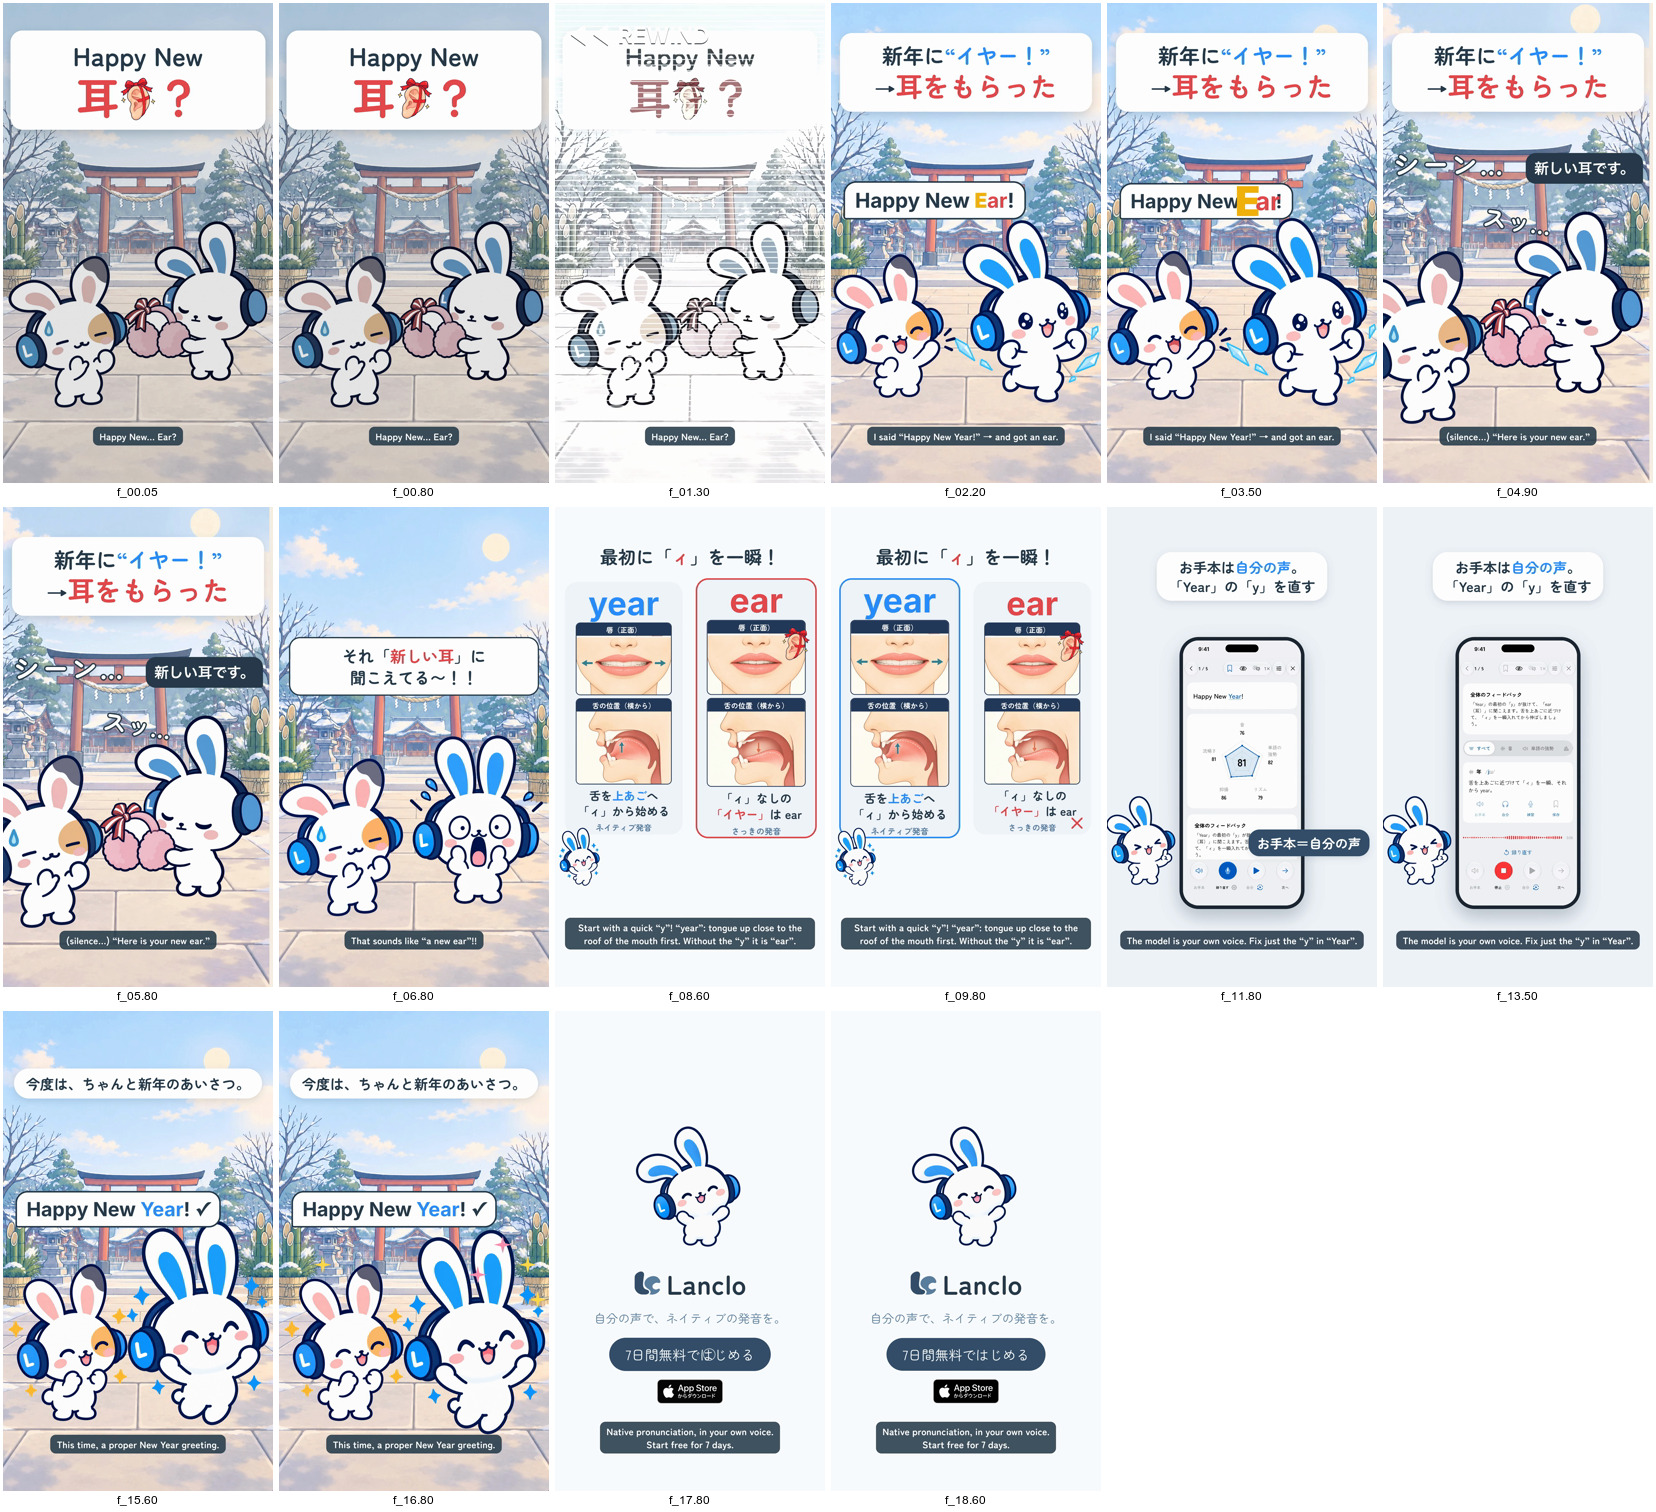
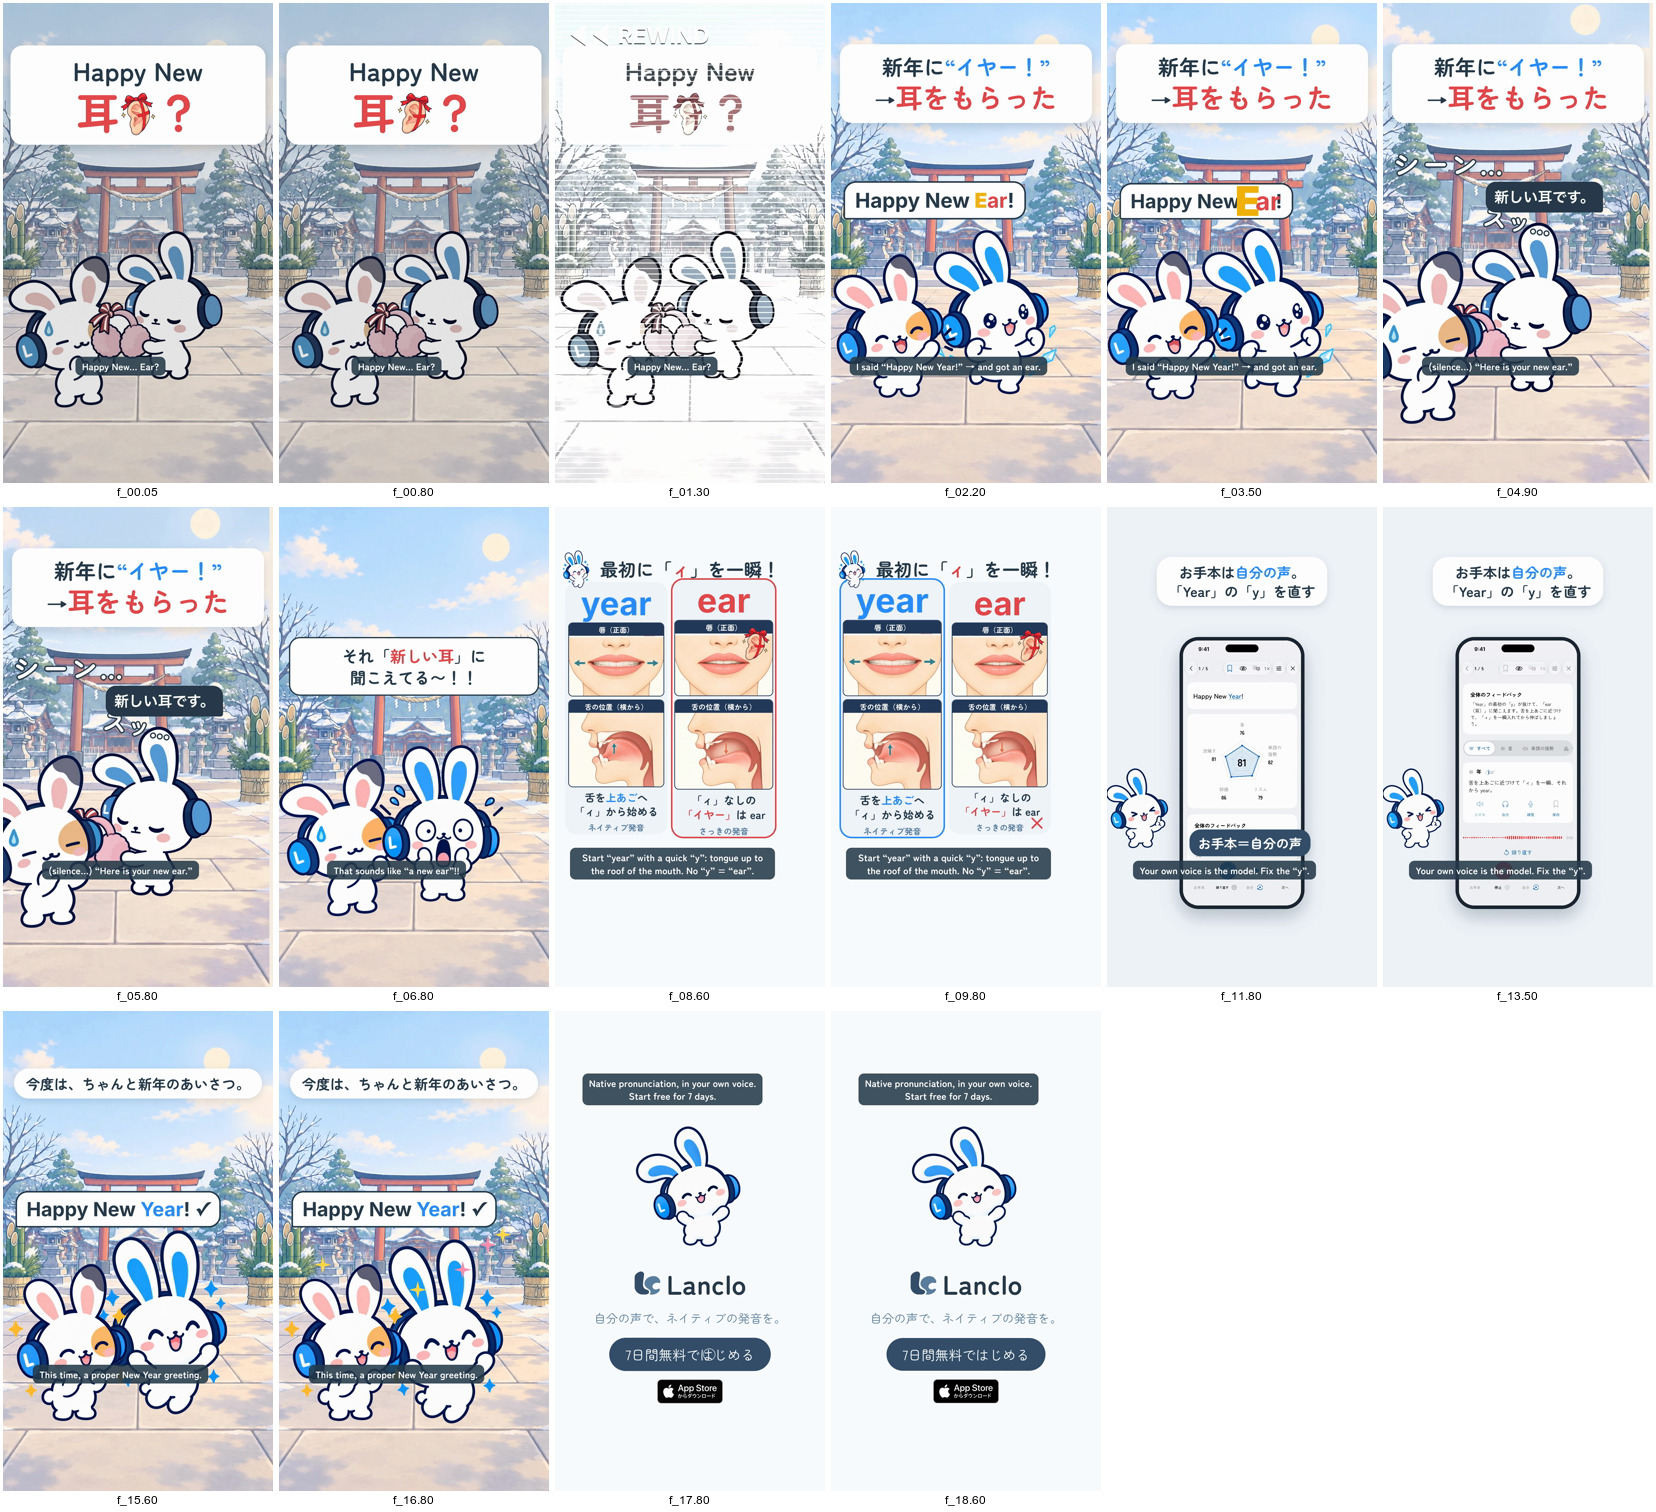
057 v3: platform safe zones (subtitles above 1500, faces and labels out of the right rail, top text below 200)

diff --git a/films/mimi-disaster-year/source/hf/index.html b/films/mimi-disaster-year/source/hf/index.html
@@ -14,13 +14,13 @@
       #plate { position: absolute; inset: 0; width: 100%; height: 100%; object-fit: cover; }
       .cast { position: absolute; height: auto; transform-origin: 50% 100%; }
       #learner, #learner2 { left: 10px; top: 1000px; width: 500px; }
-      #other, #other2 { left: 480px; top: 860px; width: 600px; }
+      #other, #other2 { left: 370px; top: 900px; width: 540px; }
       #tint { position: absolute; inset: 0; mix-blend-mode: multiply; opacity: 0; }
       #tint { background: #9aa6b2; mix-blend-mode: saturation; }
       #pon { position: absolute; left: 400px; top: 800px; font-size: 96px; font-weight: 700; color: #ffffff; -webkit-text-stroke: 10px #273b4b; paint-order: stroke fill; transform: rotate(8deg); }
       #flash { position: absolute; inset: 0; background: #ffffff; opacity: 0; }
       /* The hook: huge, on screen from frame 1 */
-      #hook { position: absolute; left: 36px; right: 36px; top: 120px; background: #ffffff; border-radius: 48px; padding: 34px 30px 38px;
+      #hook { position: absolute; left: 36px; right: 36px; top: 165px; background: #ffffff; border-radius: 48px; padding: 34px 30px 38px;
               box-shadow: 0 16px 40px rgba(39, 59, 75, 0.18); text-align: center; font-size: 84px; font-weight: 700; line-height: 1.28; color: #273b4b; }
       #hook q { quotes: none; color: #2a8dff; }
       #hook .hot { display: inline-block; color: #e5484d; font-size: 108px; line-height: 1.25; }
@@ -30,27 +30,27 @@
       #say .bad { position: relative; display: inline-block; color: #e5484d; }
       #say .bad b { display: inline-block; color: #f2b10b; }
       #ok-say span { color: #2a8dff; }
-      #other-say { position: absolute; right: 40px; top: 600px; background: #273b4b; color: #fff; border-radius: 40px; border-bottom-right-radius: 10px;
+      #other-say { position: absolute; right: 200px; top: 715px; background: #273b4b; color: #fff; border-radius: 40px; border-bottom-right-radius: 10px;
                     padding: 18px 34px; font-family: "Helvetica Neue", Arial, sans-serif; font-size: 58px; font-weight: 700; }
       #fx-word { position: absolute; left: 0; right: 0; top: 590px; text-align: center; font-size: 130px; font-weight: 700; color: #ffffff;
                   text-shadow: 0 6px 0 #273b4b, 0 10px 30px rgba(39, 59, 75, 0.35); letter-spacing: 0.05em; }
       #scratch { position: absolute; left: 600px; top: 640px; font-size: 60px; font-weight: 700; color: #273b4b; transform: rotate(10deg); }
-      #mimi { position: absolute; left: 500px; top: 900px; width: 560px; height: auto; transform-origin: 50% 100%; }
+      #mimi { position: absolute; left: 380px; top: 940px; width: 520px; height: auto; transform-origin: 50% 100%; }
       #yell { position: absolute; left: 40px; right: 40px; max-width: none; top: 520px; text-align: center; font-size: 64px; line-height: 1.35; }
       #yell .b2 { color: #e5484d; }
       /* The card: the two words, the owner's voice: the slip (right) then the model (left) */
       .type { position: absolute; inset: 0; background: #fbfcfd; }
-      #c-title { position: absolute; left: 0; right: 0; top: 150px; text-align: center; font-size: 72px; font-weight: 700; color: #273b4b; line-height: 1.3; }
+      #c-title { position: absolute; left: 0; right: 0; top: 200px; text-align: center; font-size: 72px; font-weight: 700; color: #273b4b; line-height: 1.3; }
       #c-title em { font-style: normal; color: #e5484d; }
       .col { position: absolute; top: 400px; width: 470px; height: 880px; border-radius: 48px; background: #f1f5f9; border: 6px solid transparent;
              display: flex; flex-direction: column; align-items: center; padding-top: 40px; gap: 18px; }
-      #col-ok { left: 40px; }
-      #col-ng { right: 40px; }
+      #col-ok { left: 40px; width: 410px; }
+      #col-ng { left: 470px; right: auto; width: 410px; }
       .col .w { font-family: "Helvetica Neue", Arial, sans-serif; font-weight: 700; line-height: 1.1; height: 170px; display: flex; align-items: center; }
       #col-ok .w { color: #2a8dff; }
       #col-ng .w { color: #e5484d; }
       .col svg { width: 300px; height: 180px; }
-      .col .tip { font-size: 46px; font-weight: 700; text-align: center; line-height: 1.35; color: #273b4b; }
+      .col .tip { font-size: 42px; font-weight: 700; text-align: center; line-height: 1.35; color: #273b4b; }
       .col .tip em { font-style: normal; color: #2a8dff; }
       #col-ng .tip em { color: #e5484d; }
       .col .mark { font-size: 110px; font-weight: 700; line-height: 1; }
@@ -72,20 +72,21 @@
       #status b { position: absolute; left: 13%; top: 32%; font-size: 21px; font-family: -apple-system, "Helvetica Neue", sans-serif; color: #111; }
       #status i { position: absolute; left: 36%; top: 24%; width: 28%; height: 46%; border-radius: 20px; background: #000; }
       .tap { position: absolute; width: 70px; height: 70px; margin: -35px 0 0 -35px; border-radius: 50%; border: 6px solid #2a8dff; background: rgba(42, 141, 255, 0.18); opacity: 0; }
-      #a-mimi { position: absolute; left: -10px; top: 1150px; width: 290px; height: auto; transform-origin: 50% 100%; }
-      #app .caption { top: 180px; }
-      #own { position: absolute; right: 30px; top: 1290px; }
+      #a-mimi { position: absolute; left: -10px; top: 1040px; width: 260px; height: auto; transform-origin: 50% 100%; }
+      #app .caption { top: 200px; }
+      #own { position: absolute; left: 330px; right: auto; top: 1290px; }
       #hearts { position: absolute; inset: 0; }
       /* English subtitles: bottom safe zone. <body class="no-subs"> renders the Japanese-only cut. */
       body.no-subs .sub { display: none; }
-      .sub { position: absolute; left: 30px; right: 30px; bottom: 150px; display: flex; justify-content: center; }
-      .sub span { display: block; max-width: 1000px; background: rgba(39, 59, 75, 0.88); color: #ffffff; font-size: 38px; line-height: 1.35;
+      #sub-end { bottom: auto; top: 250px; }
+      .sub { position: absolute; left: 60px; right: 200px; bottom: 430px; display: flex; justify-content: center; }
+      .sub span { display: block; max-width: 820px; background: rgba(39, 59, 75, 0.88); color: #ffffff; font-size: 38px; line-height: 1.35;
                   font-weight: 700; text-align: center; padding: 12px 26px; border-radius: 22px; }
       /* Punchline first: Mimi's line on frame 1, then a rewind to the start of the scene */
       #punch { position: absolute; inset: 0; background: #fbfcfd; overflow: hidden; }
       #punch .pplate { position: absolute; inset: 0; width: 100%; height: 100%; object-fit: cover; filter: saturate(0.6) brightness(0.92); }
       #punch .pcast { position: absolute; height: auto; filter: saturate(0.5) brightness(0.9); }
-      #punch .pt { position: absolute; left: 30px; right: 30px; top: 110px; background: #ffffff; border-radius: 48px; padding: 30px 20px 36px; box-shadow: 0 16px 40px rgba(39, 59, 75, 0.25); text-align: center; font-size: 104px; font-weight: 700; line-height: 1.3; color: #273b4b; }
+      #punch .pt { position: absolute; left: 30px; right: 30px; top: 170px; background: #ffffff; border-radius: 48px; padding: 30px 20px 36px; box-shadow: 0 16px 40px rgba(39, 59, 75, 0.25); text-align: center; font-size: 104px; font-weight: 700; line-height: 1.3; color: #273b4b; }
       #punch .pt b { font-family: "Helvetica Neue", Arial, sans-serif; color: #e5484d; font-size: 112px; white-space: nowrap; }
       #punch .pt b.jp { font-family: inherit; }
       #punch .pt b.jp { font-size: 170px; line-height: 1.15; }
@@ -112,7 +113,7 @@
       .col .panel img { display: block; width: 100%; height: auto; }
       .col .mark { position: absolute; right: 16px; bottom: 6px; font-size: 80px !important; }
       .col .gag { position: absolute; right: 22px; top: 186px; width: 110px; height: auto; transform: rotate(10deg); }
-      #c-mimi { left: 20px !important; top: 1280px !important; width: 170px !important; }
+      #c-mimi { left: 34px !important; top: 172px !important; width: 110px !important; }
 
     </style>
   </head>
@@ -122,7 +123,7 @@
       <div id="scene">
         <img id="plate" src="assets/art/shrine-winter.webp" alt="" />
         <img id="other" class="cast clip" src="assets/art/pose-grin.webp" alt="" data-start="1.5" data-duration="2.7" data-track-index="3" />
-        <img id="other-r" class="cast clip" src="assets/art/mimi-earmuffs.webp" alt="" style="left: 470px; top: 860px; width: 600px;" data-start="4.2" data-duration="2.1" data-track-index="3" />
+        <img id="other-r" class="cast clip" src="assets/art/mimi-earmuffs.webp" alt="" style="left: 330px; top: 900px; width: 560px;" data-start="4.2" data-duration="2.1" data-track-index="3" />
         <img id="other2" class="cast clip" src="assets/art/pose-jump.webp" alt="" data-start="15.1" data-duration="2.41" data-track-index="3" />
         <img id="learner" class="cast clip" src="assets/art/pose-friend-hello.webp" alt="" data-start="1.5" data-duration="2.7" data-track-index="2" />
         <img id="learner-r" class="cast clip" src="assets/art/pose-friend-oops.webp" alt="" style="left: 10px; top: 1000px; width: 500px;" data-start="4.2" data-duration="3.7" data-track-index="2" />
@@ -131,7 +132,7 @@
       <div id="punch" class="clip" data-start="0" data-duration="1.5" data-track-index="21">
         <img class="pplate" src="assets/art/shrine-winter.webp" alt="" />
         <img class="pcast" src="assets/art/pose-friend-oops.webp" alt="" style="left: 10px; top: 1000px; width: 500px;" />
-        <img class="pcast" src="assets/art/mimi-earmuffs.webp" alt="" style="left: 470px; top: 860px; width: 600px;" />
+        <img class="pcast" src="assets/art/mimi-earmuffs.webp" alt="" style="left: 330px; top: 900px; width: 560px;" />
         <div class="pt" id="p-text">Happy New<br /><b class="jp">耳<img class="ear" src="assets/art/heard-ear.webp" alt="" />？</b></div>
                 
         <div id="rew"><span>◀◀ REWIND</span></div>
@@ -199,17 +200,17 @@
       <div class="sub clip" data-start="1.5" data-duration="2.7" data-track-index="24"><span>I said “Happy New Year!” → and got an ear.</span></div>
       <div class="sub clip" data-start="4.2" data-duration="2.1" data-track-index="24"><span>(silence…) “Here is your new ear.”</span></div>
       <div class="sub clip" data-start="6.3" data-duration="1.6" data-track-index="24"><span>That sounds like “a new ear”!!</span></div>
-      <div class="sub clip" data-start="7.9" data-duration="3.0" data-track-index="24"><span>Start with a quick “y”! “year”: tongue up close to the roof of the mouth first. Without the “y” it is “ear”.</span></div>
-      <div class="sub clip" data-start="10.9" data-duration="4.2" data-track-index="24"><span>The model is your own voice. Fix just the “y” in “Year”.</span></div>
+      <div class="sub clip" data-start="7.9" data-duration="3.0" data-track-index="24"><span>Start “year” with a quick “y”: tongue up to the roof of the mouth. No “y” = “ear”.</span></div>
+      <div class="sub clip" data-start="10.9" data-duration="4.2" data-track-index="24"><span>Your own voice is the model. Fix the “y”.</span></div>
       <div class="sub clip" data-start="15.1" data-duration="2.41" data-track-index="24"><span>This time, a proper New Year greeting.</span></div>
-      <div class="sub clip" data-start="17.51" data-duration="1.3" data-track-index="24"><span>Native pronunciation, in your own voice.<br />Start free for 7 days.</span></div>
+      <div class="sub clip" id="sub-end" data-start="17.51" data-duration="1.3" data-track-index="24"><span>Native pronunciation, in your own voice.<br />Start free for 7 days.</span></div>
 
       <audio id="mix" src="assets/mix.wav" data-start="0" data-duration="18.81" data-track-index="20" data-volume="1"></audio>
     </div>
     <script>
       const K = window.MimiKit;
       K.endCard(document.getElementById("end"), "自分の声で、ネイティブの発音を。", "7日間無料ではじめる");
-      K.sparkles(document.getElementById("hearts"), [[760, 1020, "#ff8fb1"], [960, 980, "#ffd84a"], [860, 900, "#ff8fb1"], [1000, 1120, "#ffd84a"], [140, 980, "#ffd84a"]]);
+      K.sparkles(document.getElementById("hearts"), [[700, 1000, "#ff8fb1"], [860, 860, "#ffd84a"], [800, 900, "#ff8fb1"], [520, 1080, "#ffd84a"], [140, 980, "#ffd84a"]]);
       // Cue sheet (seconds), same as scripts/mix.py
       const T0 = 2.0, WORD = 3.38, F = 4.2, OL = 4.5, M = 6.3, C = 7.9, CL = 8.5, CN = 9.6, A = 10.9, MODEL = 11.5, REC = 13.1, X = 15.1, E = 17.51;
       const tl = gsap.timeline({ paused: true });

diff --git a/films/mimi-disaster-year/PROCESS.md b/films/mimi-disaster-year/PROCESS.md
@@ -33,6 +33,8 @@
 
 8. v2 (commander review, 2026-10-23): loudness raised to -14 LUFS with the post-gain + -1.5 dBTP limiter step from films/mimi-katakana-mcdonalds `scripts/mix.py` (balance unchanged; measured -13.9 LUFS on the WAV, -13.7 LUFS / -1.5 dBTP on both cuts); the small Mimi on the card (width 170, top 1280) and in the app beat (width 290, top 1150) moved up so she ends above y = 1520 (bottom 400 px clear). v1 drafts moved to Drive `old/` with `_v1`.
 
+9. v3 (platform safe zones; the owner, 2026-10-23: 「セーフティエリアって大丈夫？被ってもいいけどすべてが隠れないようにね。」): EN subtitles moved fully above y 1500 within x 60–880 (card and app subtitles shortened; the end-card subtitle sits at the top); the right-hand Mimi (scene, freeze, yell, fix, punchline) moved left so her face stays left of x 900; 「新しい耳です。」 and the お手本 tag out of the right rail; the mouth-card columns narrowed to x 40–880; the small Mimi on the card moved beside the title; the hook, punchline, card title and app caption start at y ≥ 200. Verified on a zone-overlay contact sheet of the EN cut. Loudness unchanged (-13.7 LUFS, -1.5 dBTP). The kit end card's App Store badge still sits just inside the bottom 420 px (kit-wide, unchanged). v2 drafts moved to Drive `old/` with `_v2`.
+
 ## Uncertain / for review
 
 - The learner voice is the owner's (a young adult man) on the Friend.
